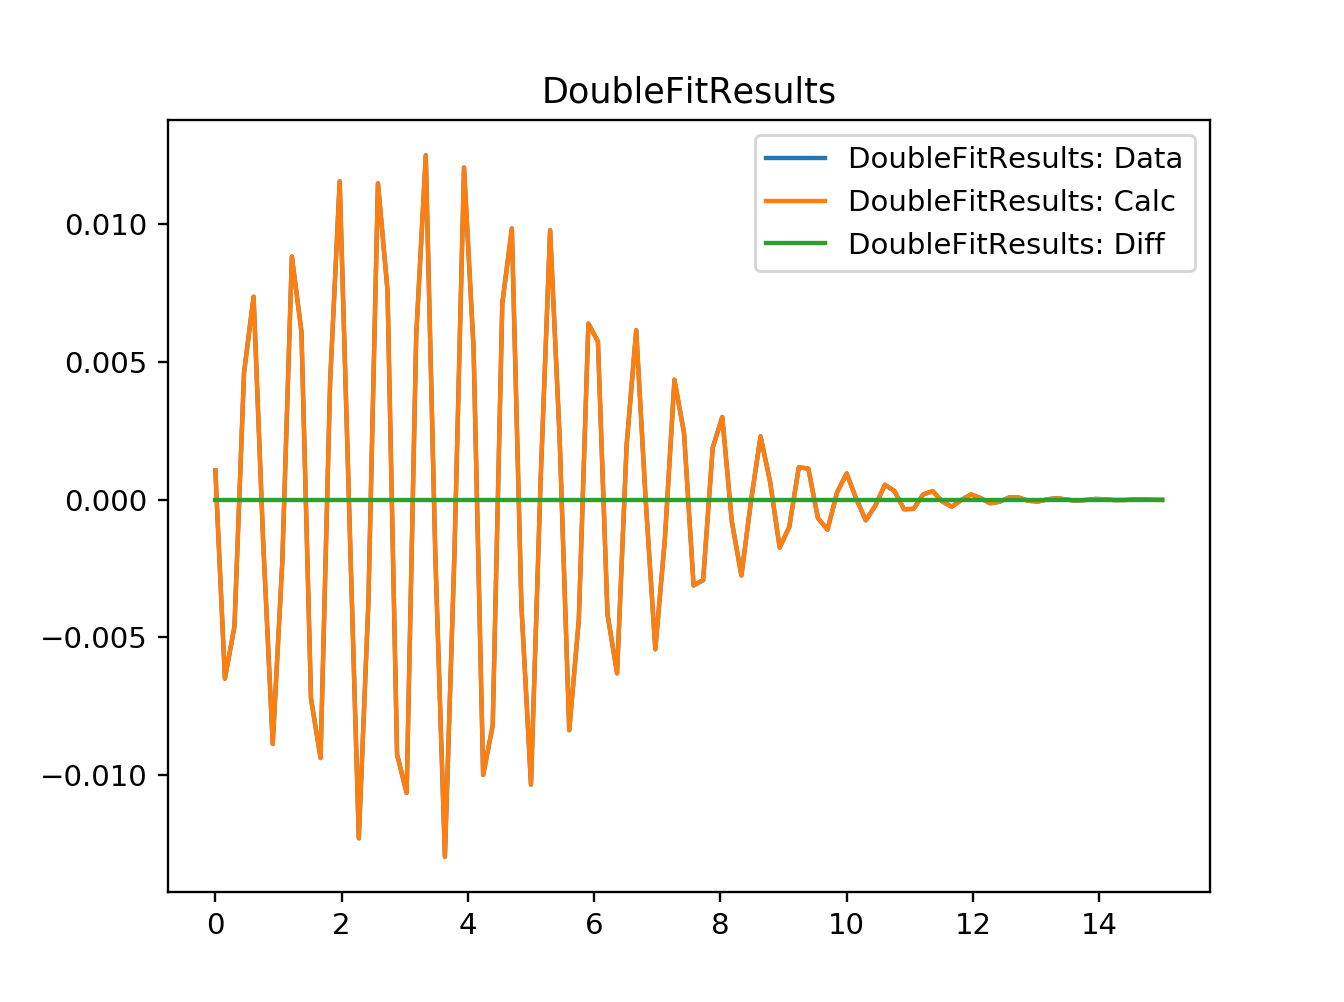
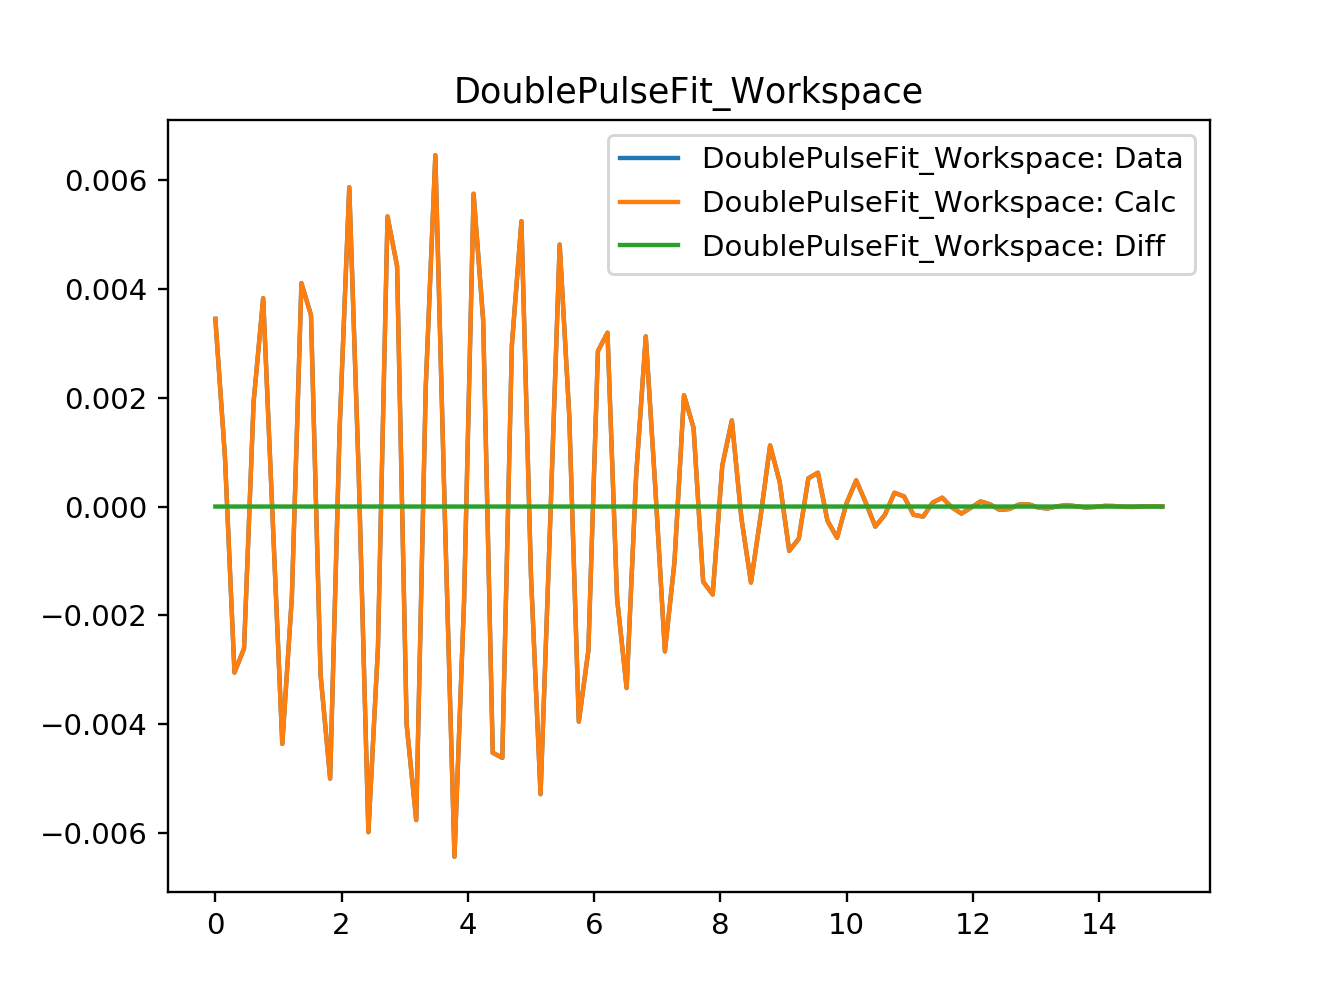
Changed offset to symmetric half offset Re #28741

diff --git a/scripts/test/DoublePulseFitTest.py b/scripts/test/DoublePulseFitTest.py
@@ -15,17 +15,18 @@ class SingleDomainDoublePulseFitTest(unittest.TestCase):
     def setUpClass(cls):
         delta = 0.33
         x = np.linspace(0.,15.,100)
-        x_offset = np.linspace(delta, 15. + delta, 100)
+        x_offset = np.linspace(delta/2, 15. + delta/2, 100)
+        x_offset_neg = np.linspace(-delta/2, 15. - delta/2, 100)
 
         testFunction = GausOsc(Frequency = 1.5, A=0.22)
-        y1 = testFunction(x)
+        y1 = testFunction(x_offset_neg)
         y2 = testFunction(x_offset)
-        y = y1+y2
+        y = y1/2+y2/2
         ws = CreateWorkspace(x,y)
 
         convolution =  FunctionFactory.createCompositeFunction('Convolution')
         innerFunction = FunctionFactory.createInitialized('name=GausOsc,A=0.2,Sigma=0.2,Frequency=1,Phi=0')
-        deltaFunctions = FunctionFactory.createInitialized('(name=DeltaFunction,Height=1,Centre={},ties=(Height=1,Centre={});name=DeltaFunction,Height=1,Centre=0,ties=(Height=1,Centre=0))'.format(-delta, -delta))
+        deltaFunctions = FunctionFactory.createInitialized('(name=DeltaFunction,Height=0.5,Centre={},ties=(Height=0.5,Centre={});name=DeltaFunction,Height=0.5,Centre={},ties=(Height=0.5,Centre={}))'.format(-delta/2, -delta/2, delta/2, delta/2))
         convolution.setAttributeValue('FixResolution', False)
         convolution.add(innerFunction)
         convolution.add(deltaFunctions)
@@ -54,7 +55,7 @@ class SingleDomainDoublePulseFitTest(unittest.TestCase):
     def test_that_output_parameters_are_correct(self):
         double_parameter_workspace = AnalysisDataService.retrieve('DoublePulseFit_Parameters')
         values_column = double_parameter_workspace.column(1)
-        self.assertAlmostEqual(values_column[0], -0.22, places=3)
+        self.assertAlmostEqual(values_column[0], 0.22, places=3)
         self.assertAlmostEqual(values_column[2], 1.5, places=3)
 
 class MultiDomainDoublePulseFitTest(unittest.TestCase):
@@ -62,17 +63,18 @@ class MultiDomainDoublePulseFitTest(unittest.TestCase):
     def setUpClass(cls):
         delta = 0.33
         x = np.linspace(0.,15.,100)
-        x_offset = np.linspace(delta, 15. + delta, 100)
+        x_offset = np.linspace(delta/2, 15. + delta/2, 100)
+        x_offset_neg = np.linspace(-delta/2, 15. - delta/2, 100)
 
         testFunction = GausOsc(Frequency = 1.5, A=0.22)
-        y1 = testFunction(x)
+        y1 = testFunction(x_offset_neg)
         y2 = testFunction(x_offset)
-        y = y1+y2
+        y = y1/2+y2/2
         ws = CreateWorkspace(x,y)
 
         convolution =  FunctionFactory.createCompositeFunction('Convolution')
         innerFunction = FunctionFactory.createInitialized('name=GausOsc,A=0.2,Sigma=0.2,Frequency=1,Phi=0')
-        deltaFunctions = FunctionFactory.createInitialized('(name=DeltaFunction,Height=1,Centre={},ties=(Height=1,Centre={});name=DeltaFunction,Height=1,Centre=0,ties=(Height=1,Centre=0))'.format(-delta, -delta))
+        deltaFunctions = FunctionFactory.createInitialized('(name=DeltaFunction,Height=0.5,Centre={},ties=(Height=0.5,Centre={});name=DeltaFunction,Height=0.5,Centre={},ties=(Height=0.5,Centre={}))'.format(-delta/2, -delta/2, delta/2, delta/2))
         convolution.setAttributeValue('FixResolution', False)
         convolution.add(innerFunction)
         convolution.add(deltaFunctions)

diff --git a/Framework/CurveFitting/test/Algorithms/DoublePulseFitTest.h b/Framework/CurveFitting/test/Algorithms/DoublePulseFitTest.h
@@ -25,8 +25,8 @@ public:
     TS_ASSERT_EQUALS(
         "composite=Convolution,FixResolution=false,NumDeriv=true;name=ExpDecay,"
         "Height=5,Lifetime=2;(name=DeltaFunction,"
-        "Height=1,Centre=-5,ties=(Height=1,Centre=-5);name="
-        "DeltaFunction,Height=2,Centre=0,ties=(Height=2,Centre=0)"
+        "Height=1,Centre=-2.5,ties=(Height=1,Centre=-2.5);name="
+        "DeltaFunction,Height=2,Centre=2.5,ties=(Height=2,Centre=2.5)"
         ")",
         doublePulseFunction->asString());
   }
@@ -40,12 +40,13 @@ public:
     TS_ASSERT_EQUALS(
         "composite=MultiDomainFunction,NumDeriv=true;(composite=Convolution,"
         "FixResolution=false,NumDeriv=true,$domains=i;name=ExpDecay,Height=5,"
-        "Lifetime=2;(name=DeltaFunction,Height=1,Centre=-5,ties=(Height=1,"
-        "Centre=-5);name=DeltaFunction,Height=2,Centre=0,ties=(Height=2,Centre="
-        "0)));(composite=Convolution,FixResolution=false,NumDeriv=true,$"
+        "Lifetime=2;(name=DeltaFunction,Height=1,Centre=-2.5,ties=(Height=1,"
+        "Centre=-2.5);name=DeltaFunction,Height=2,Centre=2.5,ties=(Height=2,"
+        "Centre="
+        "2.5)));(composite=Convolution,FixResolution=false,NumDeriv=true,$"
         "domains=i;name=ExpDecay,Height=5,Lifetime=2;(name=DeltaFunction,"
-        "Height=1,Centre=-5,ties=(Height=1,Centre=-5);name=DeltaFunction,"
-        "Height=2,Centre=0,ties=(Height=2,Centre=0)))",
+        "Height=1,Centre=-2.5,ties=(Height=1,Centre=-2.5);name=DeltaFunction,"
+        "Height=2,Centre=2.5,ties=(Height=2,Centre=2.5)))",
         doublePulseFunction->asString());
   }
 

diff --git a/Framework/CurveFitting/src/Algorithms/DoublePulseFit.cpp b/Framework/CurveFitting/src/Algorithms/DoublePulseFit.cpp
@@ -75,10 +75,10 @@ Mantid::API::IFunction_sptr getDoublePulseFunction(
   auto deltaComposite = std::make_shared<Mantid::API::CompositeFunction>();
 
   convolution->setAttributeValue("FixResolution", false);
-  delta1->setParameter("Centre", -offset);
+  delta1->setParameter("Centre", -0.5 * offset);
   delta1->setParameter("Height", firstPulseWeight);
   delta1->fixAll();
-  delta2->setParameter("Centre", 0.0);
+  delta2->setParameter("Centre", 0.5 * offset);
   delta2->setParameter("Height", secondPulseWeight);
   delta2->fixAll();
   deltaComposite->addFunction(delta1);
@@ -212,8 +212,8 @@ void DoublePulseFit::initConcrete() {
                   "(default is false, ignored if CreateOutput is false and "
                   "Output is an empty string).");
   declareProperty("PulseOffset", 0.0, "The time offset between the two pulses");
-  declareProperty("FirstPulseWeight", 1.0, "Weighting of first pulse.");
-  declareProperty("SecondPulseWeight", 1.0, "Weighting of first pulse.");
+  declareProperty("FirstPulseWeight", 0.5, "Weighting of first pulse.");
+  declareProperty("SecondPulseWeight", 0.5, "Weighting of first pulse.");
 }
 
 void DoublePulseFit::execConcrete() {

diff --git a/scripts/Muon/GUI/Common/fitting_tab_widget/fitting_tab_presenter.py b/scripts/Muon/GUI/Common/fitting_tab_widget/fitting_tab_presenter.py
@@ -286,7 +286,7 @@ class FittingTabPresenter(object):
             return
 
         if 'DoublePulseEnabled' in self.model.context.gui_context and self.model.context.gui_context['DoublePulseEnabled'] \
-         and self.view.tf_asymmetry_mode:
+                and self.view.tf_asymmetry_mode:
             self.view.tf_asymmetry_mode = False
             self.view.warning_popup('Tf asymmetry mode incompatible with double pulse analysis.')
             return

diff --git a/docs/source/algorithms/DoublePulseFit-v1.rst b/docs/source/algorithms/DoublePulseFit-v1.rst
@@ -12,12 +12,12 @@ Description
 This algorithm is is designed to analyse double pulse Muon data. It fits two copies of the input function seperated by a time offset. The function fitted is of the form
 
 .. math::
-  f(t) = N_1 f(t + t_s)_{input} + N_2 f(t)_{input},
+  f(t) = N_1 f(t + t_s/2)_{input} + N_2 f(t - t_s/2)_{input},
 
 where :math:`N_1` is the FirstPulseWeight, :math:`N_2` is the SecondPulseWeight and :math:`t_s` is the PulseOffset. The corresponding parameters of the two input functions are tied to have the same value. In practise this is achieved by taking a convolution of two delta functions with the input function;
 
 .. math::
-  f(t) = f(t)_{input} * (N_1\delta(-ts) + N_2\delta(0)).
+  f(t) = f(t)_{input} * (N_1\delta(-t_s/2) + N_2\delta(t_s/2)).
 
 With the exception of the three new parameters PulseOffset, FirstPulseWeight and SecondPulseWeight the interface for DoublePulseFit is identical to that of Fit and the two can be used interchangeably.
 The function output by this algorithm corrospond to the inner function only whilst the output fit curves corrospond to the full function.
@@ -28,49 +28,51 @@ Usage
 .. testcode::
 
   import numpy as np
-  from mantid.simpleapi import DoublePulseFit, CreateWorkspace, GausOsc
-  from mantid.api import FunctionFactory
+  from mantid.simpleapi import DoublePulseFit, CreateWorkspace, GausOsc, Fit
+  from mantid.api import FunctionFactory, AnalysisDataService
 
   # Create a workspace with two offset oscillations
   delta = 0.33
   x = np.linspace(0.,15.,100)
-  x_offset = np.linspace(delta, 15. + delta, 100)
+  x_offset = np.linspace(delta/2, 15. + delta/2, 100)
+  x_offset_neg = np.linspace(-delta/2, 15. - delta/2, 100)
+
   testFunction = GausOsc(Frequency = 1.5, A=0.22)
-  y1 = testFunction(x)
+  y1 = testFunction(x_offset_neg)
   y2 = testFunction(x_offset)
-  y = y1+y2
+  y = y1/2+y2/2
   ws = CreateWorkspace(x,y)
 
   # Create functions to fit
   convolution =  FunctionFactory.createCompositeFunction('Convolution')
   innerFunction = FunctionFactory.createInitialized('name=GausOsc,A=0.2,Sigma=0.2,Frequency=1,Phi=0')
-  deltaFunctions = FunctionFactory.createInitialized('(name=DeltaFunction,Height=1,Centre=-0.33,ties=(Height=1,Centre=-0.33);name=DeltaFunction,Height=1,Centre=0,ties=(Height=1,Centre=0))')
+  deltaFunctions = FunctionFactory.createInitialized('(name=DeltaFunction,Height=0.5,Centre={},ties=(Height=0.5,Centre={});name=DeltaFunction,Height=0.5,Centre={},ties=(Height=0.5,Centre={}))'.format(-delta/2, -delta/2, delta/2, delta/2))
   convolution.setAttributeValue('FixResolution', False)
   convolution.add(innerFunction)
   convolution.add(deltaFunctions)
   innerFunctionSingle = FunctionFactory.createInitialized('name=GausOsc,A=0.2,Sigma=0.2,Frequency=1,Phi=0')
   
   DoublePulseFit(Function=innerFunctionSingle, InputWorkspace=ws,  PulseOffset = delta, StartX=0.0, EndX=15.0, Output='DoublePulseFit')
-  Fit(Function=convolution, InputWorkspace=ws, CreateOutput = True, StartX=0.0, EndX=15.0, Output='Fit', MaxIterations=1)
+  Fit(Function=convolution, InputWorkspace=ws, CreateOutput = True, StartX=0.0, EndX=15.0, Output='Fit')
 
   double_parameter_workspace = AnalysisDataService.retrieve('DoublePulseFit_Parameters')
   double_col_values = double_parameter_workspace.column(1)
 
-  single_parameter_workspace = AnalysisDataService.retrieve('DoublePulseFit_Parameters')
+  single_parameter_workspace = AnalysisDataService.retrieve('Fit_Parameters')
   col_values = single_parameter_workspace.column(1)
   
-  print('Fitted value of A from DoublePulseFit is {}'.format(double_col_values[0]))
-  print('Fitted value of Frequency from DoublePulseFit is {}'.format(double_col_values[2]))
-  print('Fitted value of A from Fit is {}'.format(col_values[0]))
-  print('Fitted value of Frequency from Fit is {}'.format(col_values[2]))
+  print('Fitted value of A from DoublePulseFit is {:.2g}'.format(double_col_values[0]))
+  print('Fitted value of Frequency from DoublePulseFit is {:.2g}'.format(double_col_values[2]))
+  print('Fitted value of A from Fit is {:.2g}'.format(col_values[0]))
+  print('Fitted value of Frequency from Fit is {:.2g}'.format(col_values[2]))
 
 Output:
 
 .. testoutput::
 
-  Fitted value of A from DoublePulseFit is -0.22
+  Fitted value of A from DoublePulseFit is 0.22
   Fitted value of Frequency from DoublePulseFit is 1.5
-  Fitted value of A from Fit is -0.22
+  Fitted value of A from Fit is 0.22
   Fitted value of Frequency from Fit is 1.5
 
 .. figure:: /images/DoublePulseFitExample.png
